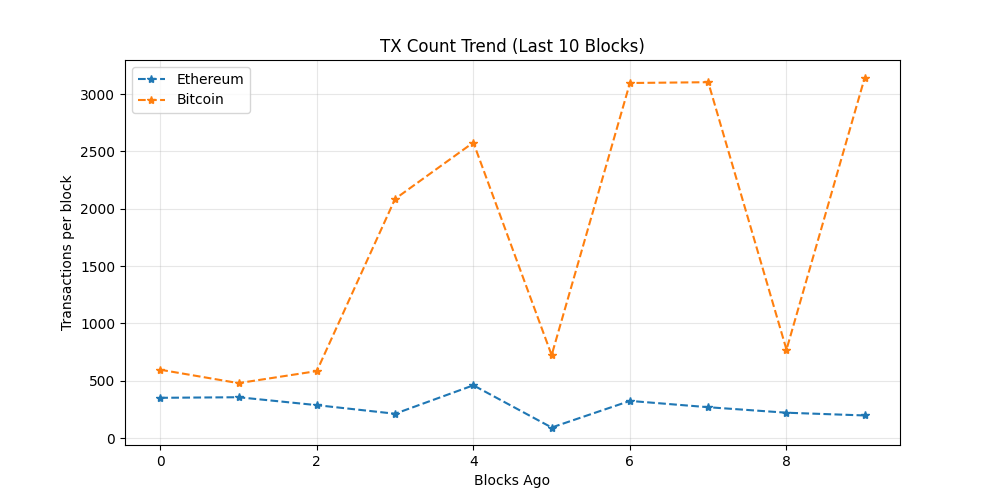
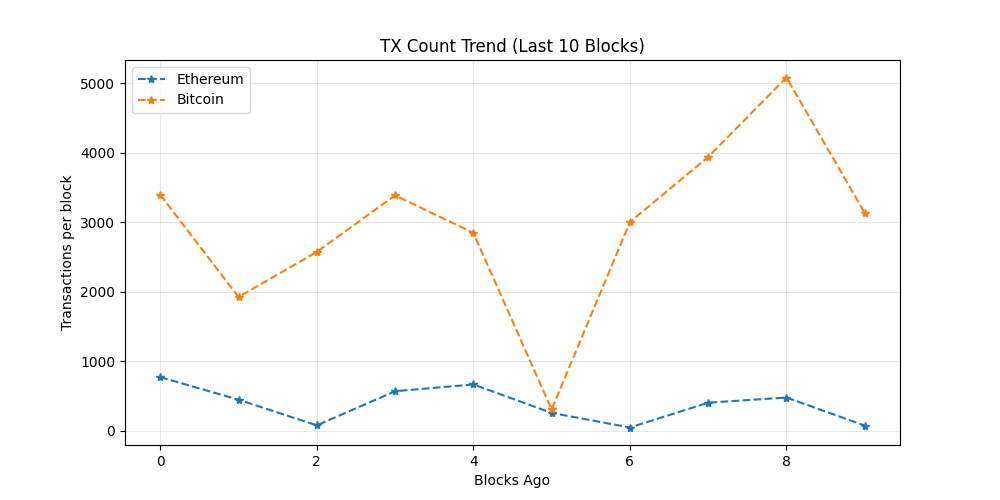
chore: update on-chain dashboard

diff --git a/README.md b/README.md
@@ -19,7 +19,7 @@ The README itself acts as the dashboard and is regenerated automatically on a 6 
 demonstrating a production-style, infrastructure-focused observability workflow rather
 than a traditional UI-driven approach.
 
-_Last updated: 2026-03-03 07:10 UTC_
+_Last updated: 2026-03-03 13:32 UTC_
 
 ## API Usage (GetBlock.io)
 - Calls used: **24**
@@ -27,8 +27,8 @@ _Last updated: 2026-03-03 07:10 UTC_
 ## Network Metrics
 | Chain | Block Height | TX Count | TPS (10 blk avg) | Block Util | Avg Fee |
 |------|-------------|----------|------------------|------------|---------|
-| Ethereum | 24575346 | 197 | 16.42 | 52.98% | 0.0 Gwei |
-| Bitcoin | 939102 | 3145 | 1.43 | 99.8% | N/A |
+| Ethereum | 24577246 | 75 | 6.25 | 22.18% | 0.1 Gwei |
+| Bitcoin | 939140 | 3133 | 2.66 | 99.79% | N/A |
 
 ## Visuals
 ### Transactions Trend
@@ -43,11 +43,11 @@ _Last updated: 2026-03-03 07:10 UTC_
 ## Whale Alerts (latest block)
 - Transaction hashes are truncated for readability.
 - Full hashes are available in `dashboards/metrics.json`
-- Bitcoin | 13174.39 BTC | `dae83dd51dd6…`
-- Bitcoin | 154.65 BTC | `5afcb5245293…`
-- Bitcoin | 124.0 BTC | `2247f1f6ecd4…`
-- Bitcoin | 181.36 BTC | `6df061ac3ad6…`
-- Bitcoin | 158.22 BTC | `9ec4a64ecf55…`
+- Bitcoin | 277.35 BTC | `9e0c1ece6eb3…`
+- Bitcoin | 425.37 BTC | `9e680a15df36…`
+- Bitcoin | 413.36 BTC | `54f5ddb2876f…`
+- Bitcoin | 113.15 BTC | `78a843e2741d…`
+- Bitcoin | 173.92 BTC | `3419591dc22e…`
 
 ## Run locally
 
